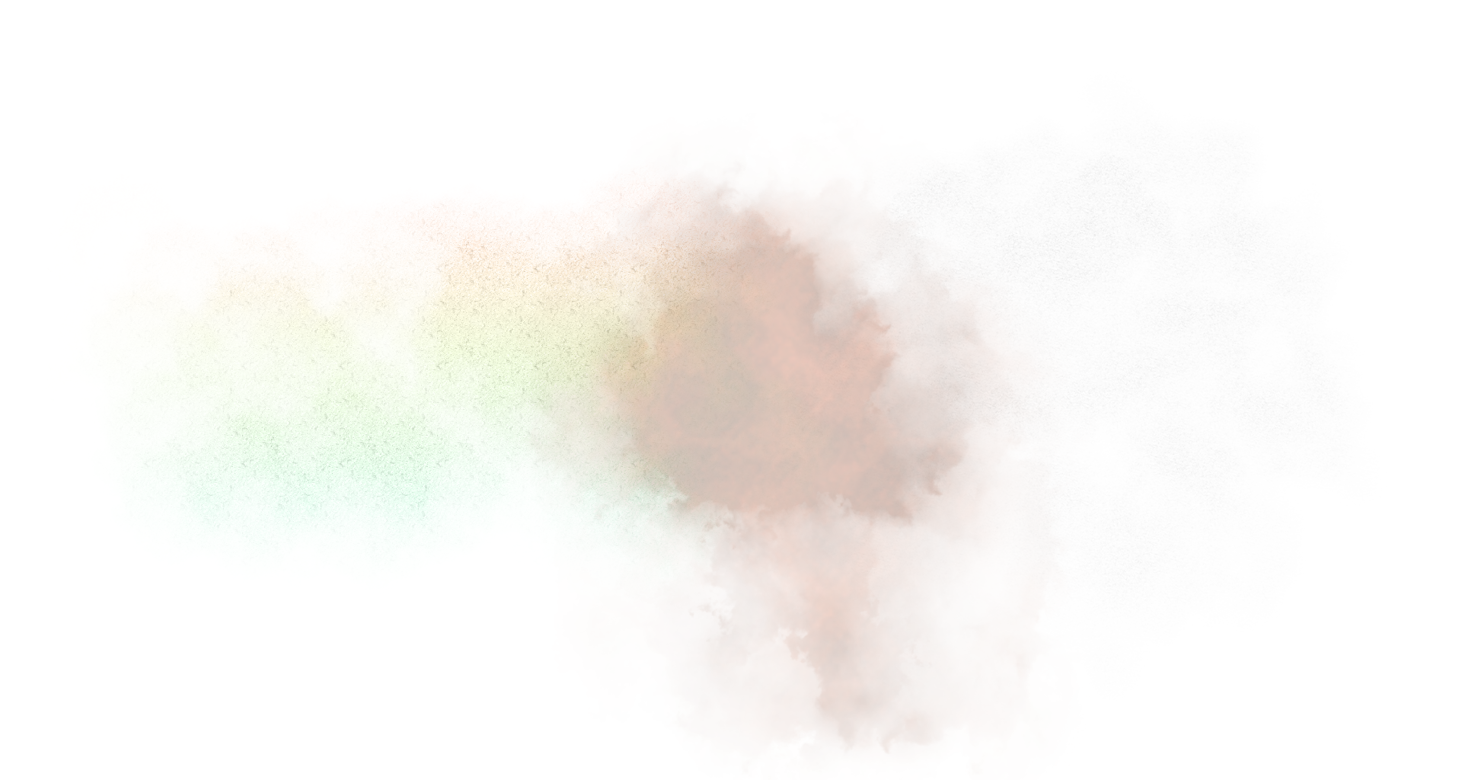
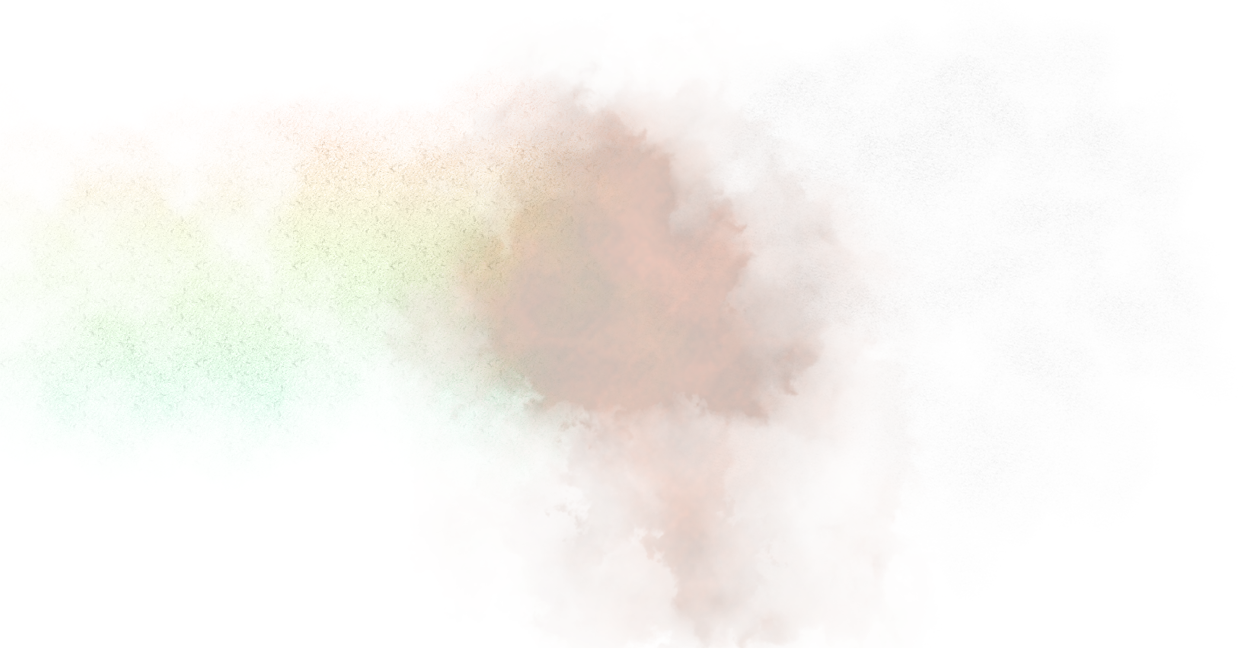
resize images, vitesse jeu

diff --git a/src/game.py b/src/game.py
@@ -104,7 +104,7 @@ pygame.init()
 
         
 ##### PARAMETRES DE LA FENETRE #####
-size = width, height = 640, 480
+size = width, height = 1024,768
 screen = pygame.display.set_mode(size, pygame.FULLSCREEN)
 
 ##### COMPTEURS #####
@@ -194,13 +194,12 @@ while 1:
                 monVaisseau.charge=0
     ##### BACKGROUND #####
     screen.blit(background, (0,0))            
-    screen.blit(bgCouche1, (-i,0))
-    screen.blit(bgCouche1, (width-i,0))
+    screen.blit(bgCouche1, (width-i,i))
     screen.blit(bgCouche2, (-j,0))
     screen.blit(bgCouche2, (width-j,0))
     screen.blit(bgCouche3, (-k,0))
     screen.blit(bgCouche3, (width-k,0))
-    i+=2
+    i+=4
     j+=4
     k+=8
     if i > width:

diff --git a/src/Ship.py b/src/Ship.py
@@ -25,7 +25,7 @@ class ship:
     # de la	fenetre
     #
     def bouge(self,file0,file1, height):
-        accel=0.8
+        accel=1.5
         if self.monte == True:
             if self.posY-2 >= 0:
                 self.posY+=self.speed
